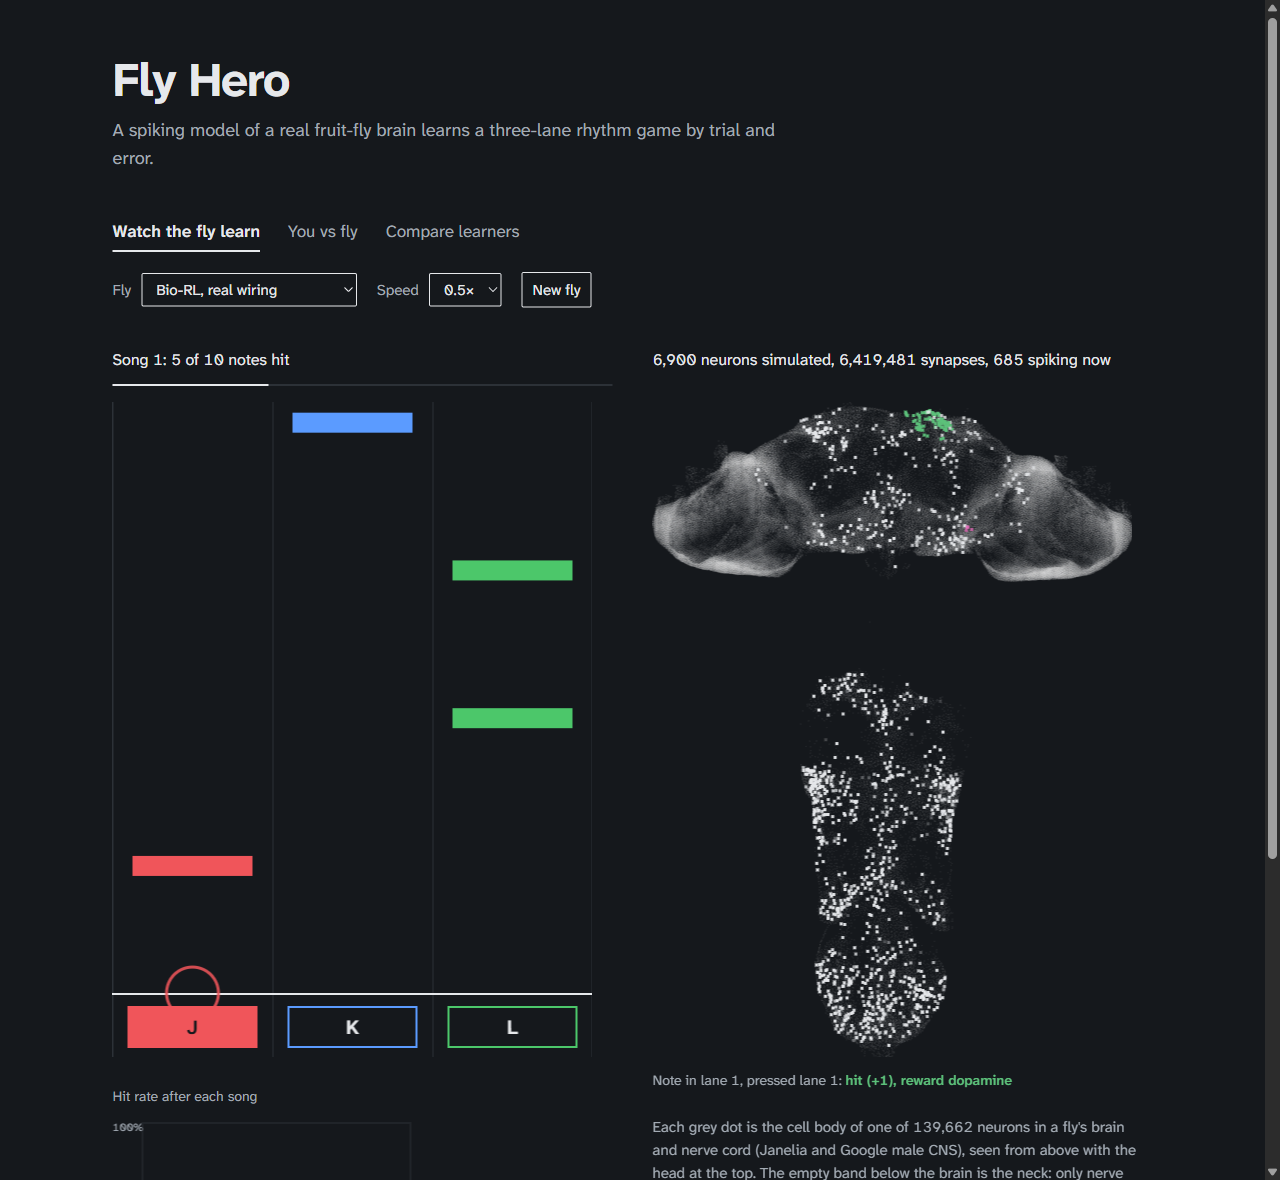
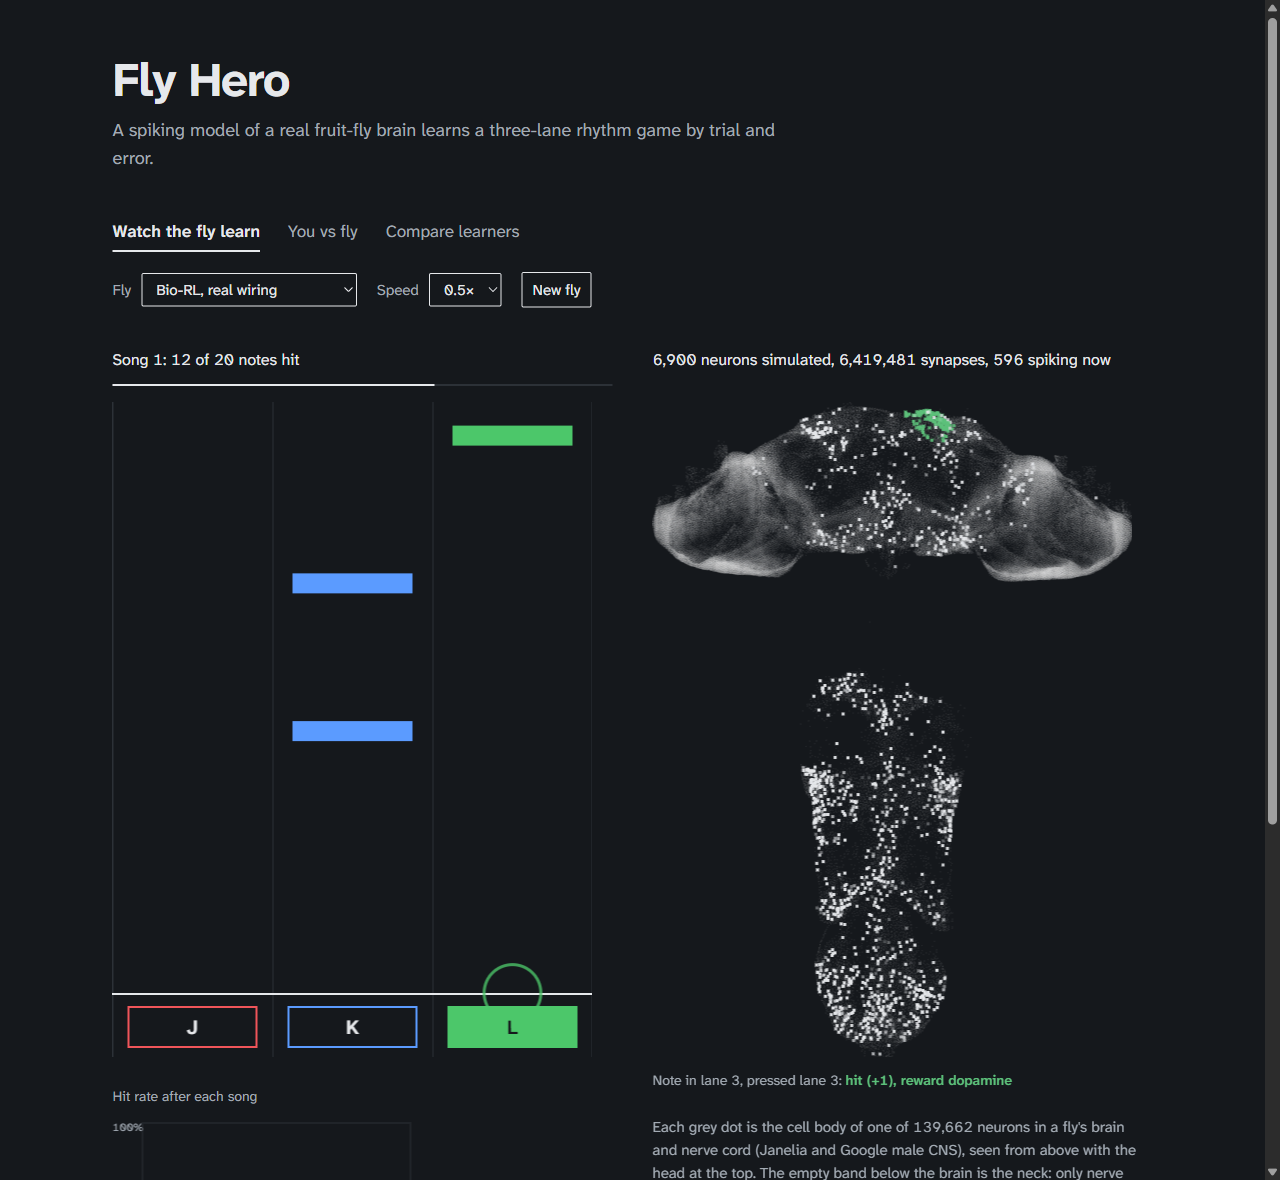
docs(readme): new screenshot with the current colours; update file line counts

diff --git a/README.md b/README.md
@@ -26,8 +26,8 @@ Janelia/Google male CNS connectome (public data)
 | `js/sim.js` | 162 | Leaky integrate-and-fire neurons on the real synapse list, plus the shuffled and random wiring controls |
 | `js/game.js` | 62 | Songs, rewards and a millisecond-level game loop |
 | `js/agents.js` | 102 | Bio-RL (dopamine learning inside the brain) and Deep-RL (a trained readout) |
-| `js/app.js` | 294 | The page: watch the fly learn, you vs fly, compare learners |
-| `js/brain.js` | 37 | Brain and nerve cord drawing |
+| `js/app.js` | 285 | The page: watch the fly learn, you vs fly, compare learners |
+| `js/brain.js` | 53 | Brain and nerve cord drawing |
 | `tools/run_experiments.mjs` | 68 | Runs every learner and control and writes `data/results.json` |
 | `tools/train_fly.mjs` | 23 | Trains the fly you play against |
 | `tools/test.mjs` | 69 | Checks for the neuron model, wiring controls, rewards and learning |
